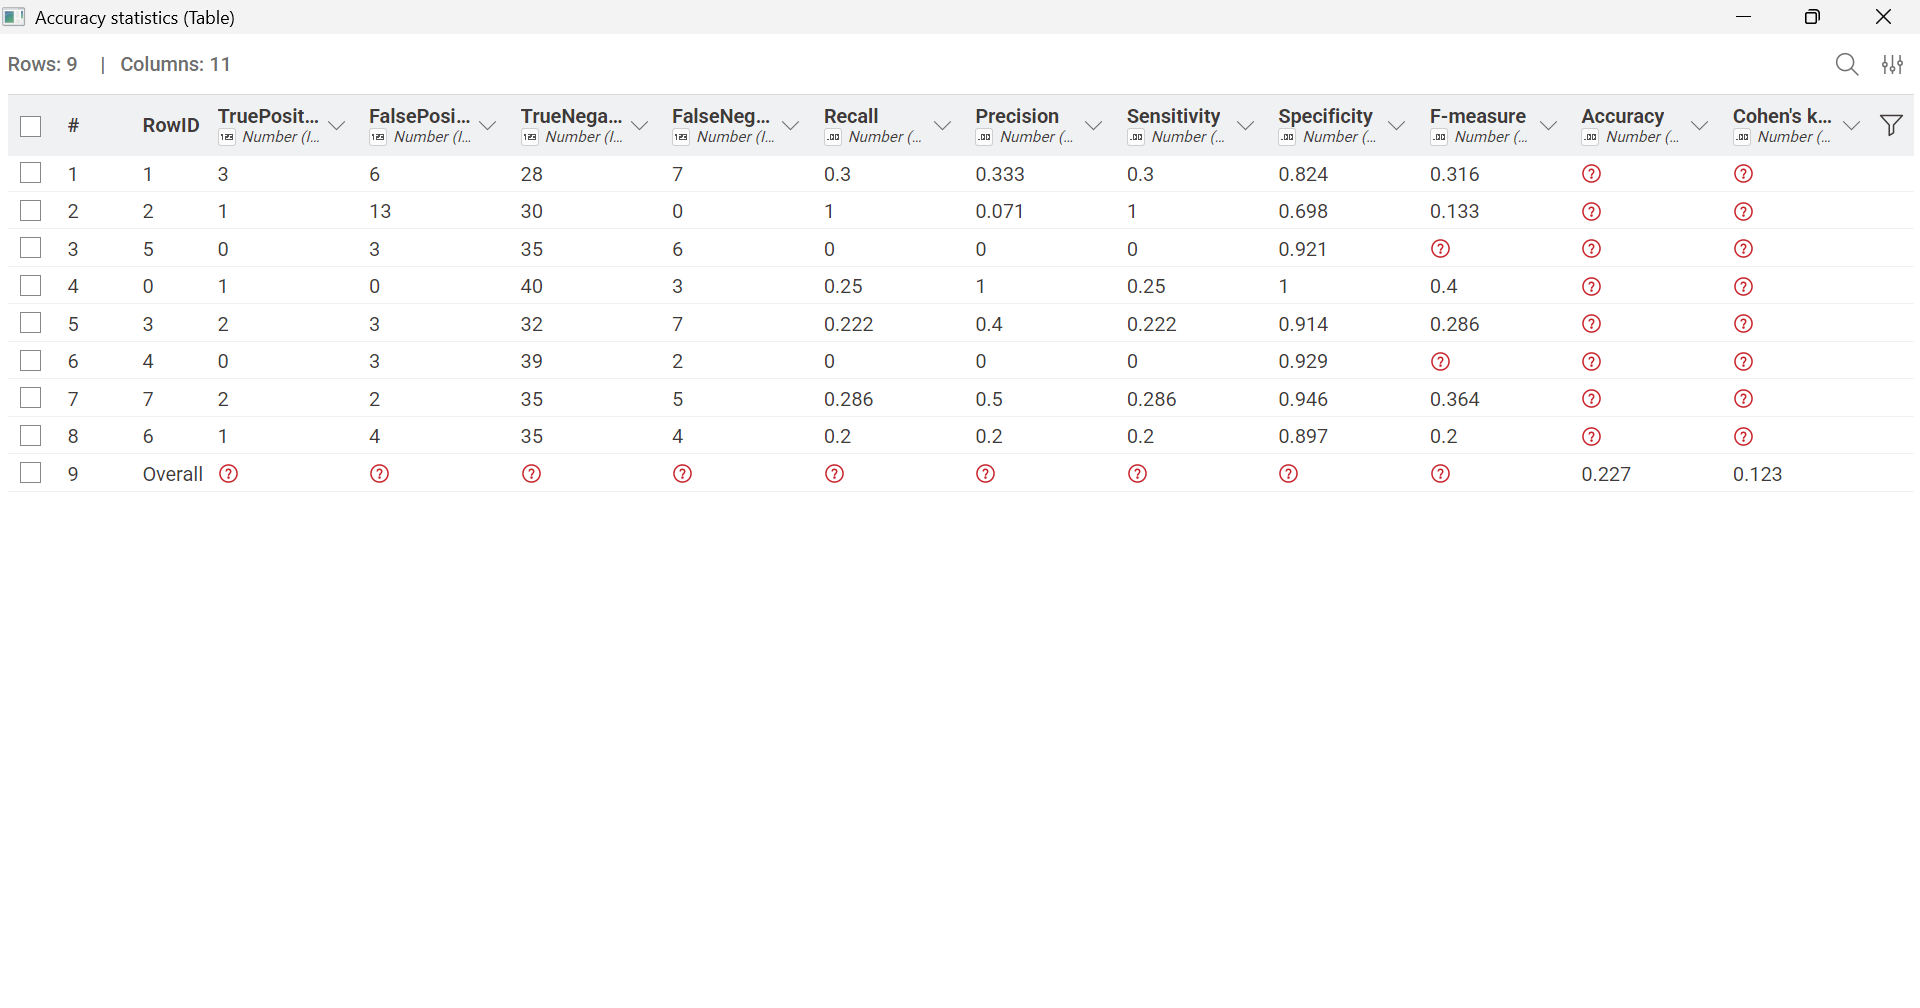
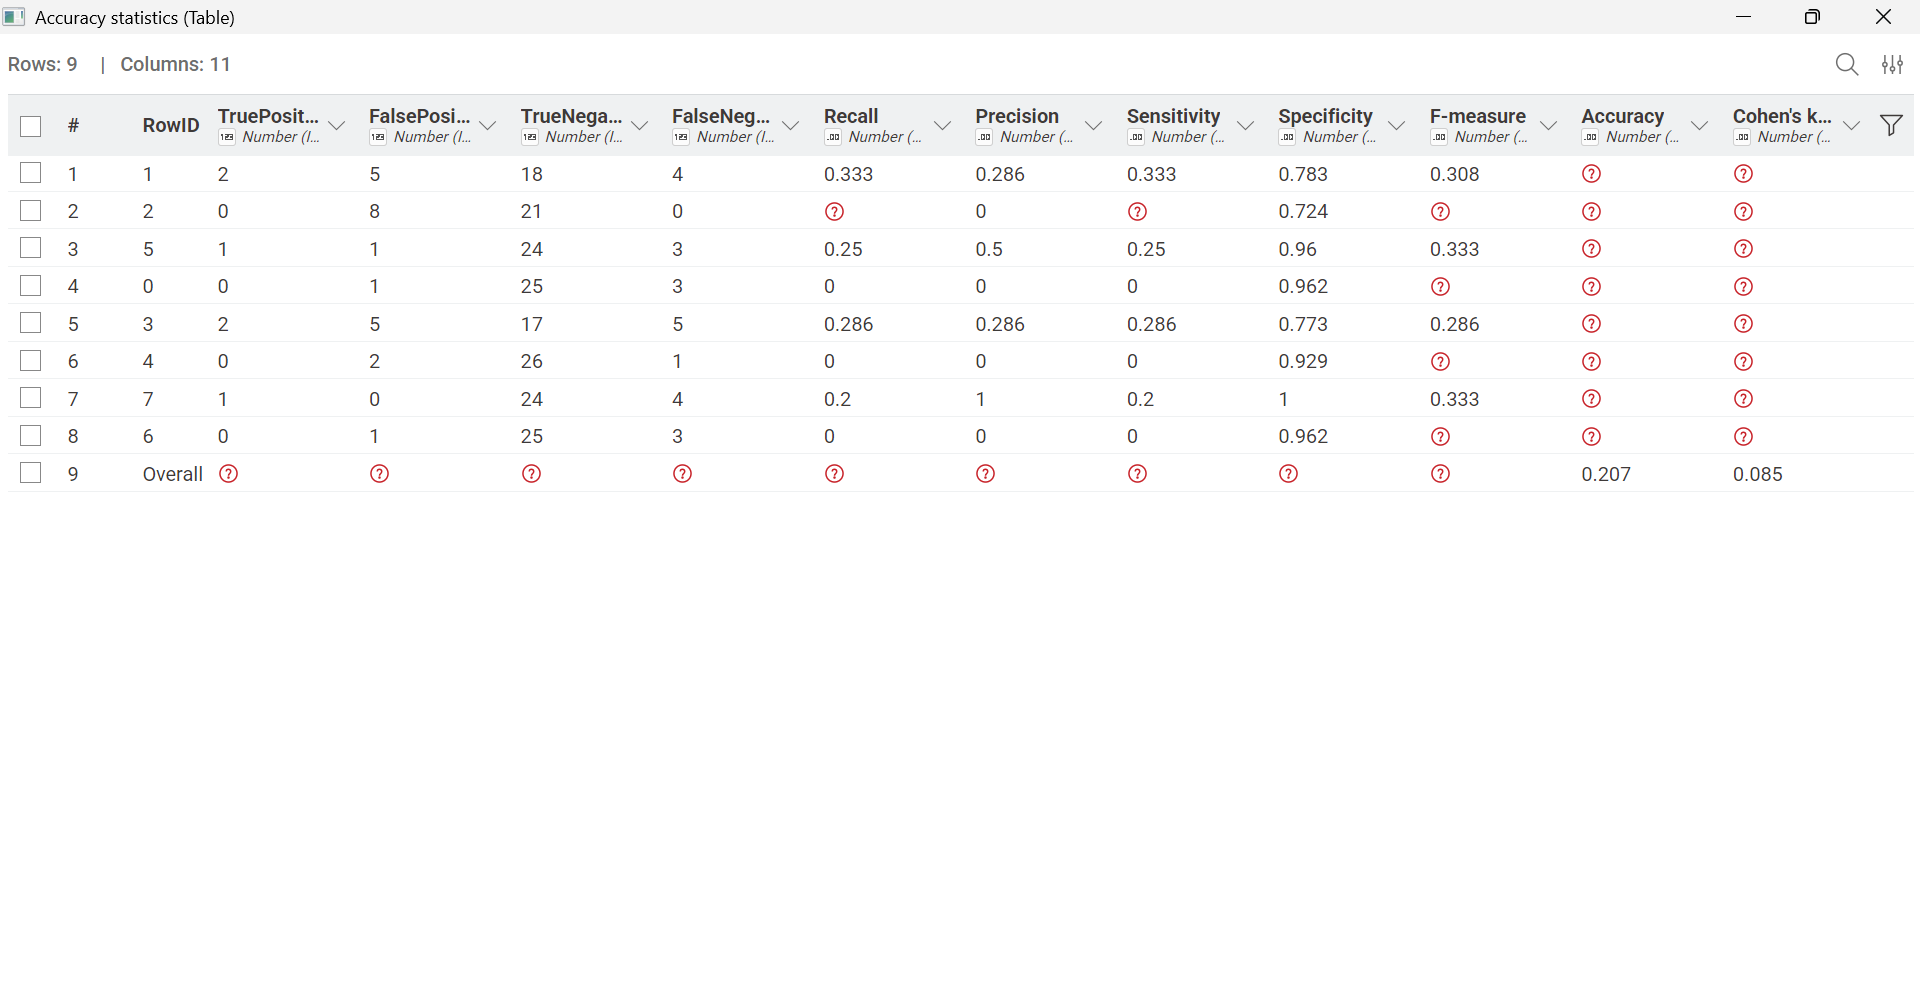
Update documentation

diff --git a/UAS.html b/UAS.html
@@ -389,8 +389,8 @@ document.write(`
             <nav aria-label="Page">
                 <ul class="visible nav section-nav flex-column">
 <li class="toc-h2 nav-item toc-entry"><a class="reference internal nav-link" href="#analisis-dataset-evaluasi-performa-mahasiswa-pendidikan-tinggi">Analisis Dataset Evaluasi Performa Mahasiswa Pendidikan Tinggi</a><ul class="nav section-nav flex-column">
-<li class="toc-h3 nav-item toc-entry"><a class="reference internal nav-link" href="#dataset">1. DATASET</a><ul class="nav section-nav flex-column">
-<li class="toc-h4 nav-item toc-entry"><a class="reference internal nav-link" href="#informasi-kolom">1.1 Informasi Kolom</a></li>
+<li class="toc-h3 nav-item toc-entry"><a class="reference internal nav-link" href="#dataset">DATASET</a><ul class="nav section-nav flex-column">
+<li class="toc-h4 nav-item toc-entry"><a class="reference internal nav-link" href="#informasi-kolom">Informasi Kolom</a></li>
 </ul>
 </li>
 <li class="toc-h3 nav-item toc-entry"><a class="reference internal nav-link" href="#knime">Knime</a></li>
@@ -431,10 +431,10 @@ document.write(`
 <section id="analisis-dataset-evaluasi-performa-mahasiswa-pendidikan-tinggi">
 <h2>Analisis Dataset Evaluasi Performa Mahasiswa Pendidikan Tinggi<a class="headerlink" href="#analisis-dataset-evaluasi-performa-mahasiswa-pendidikan-tinggi" title="Link to this heading">#</a></h2>
 <section id="dataset">
-<h3>1. DATASET<a class="headerlink" href="#dataset" title="Link to this heading">#</a></h3>
+<h3>DATASET<a class="headerlink" href="#dataset" title="Link to this heading">#</a></h3>
 <p>Dataset yang digunakan merupakan dataset Evaluasi Performa Mahasiswa Pendidikan Tinggi. Dataset ini dikumpulkan dari mahasiswa Fakultas Teknik dan Fakultas Ilmu Pendidikan. Tujuannya adalah untuk memprediksi nilai mahasiswa di akhir semester.</p>
 <section id="informasi-kolom">
-<h4>1.1 Informasi Kolom<a class="headerlink" href="#informasi-kolom" title="Link to this heading">#</a></h4>
+<h4>Informasi Kolom<a class="headerlink" href="#informasi-kolom" title="Link to this heading">#</a></h4>
 <p>Dataset ini terdiri dari 33 kolom, yang terdiri dari 1 kolom kode identitas mahasiswa, 2-11 data adalah pertanyaan pribadi, 12-17. pertanyaan termasuk pertanyaan keluarga, dan pertanyaan yang tersisa termasuk kebiasaan pendidikan.</p>
 <p>Keterangan tiap kolom</p>
 <ul class="simple">
@@ -616,8 +616,8 @@ Melalui analisis Attribute Importance pada algoritma Random Forest, ditemukan ba
   <nav class="bd-toc-nav page-toc">
     <ul class="visible nav section-nav flex-column">
 <li class="toc-h2 nav-item toc-entry"><a class="reference internal nav-link" href="#analisis-dataset-evaluasi-performa-mahasiswa-pendidikan-tinggi">Analisis Dataset Evaluasi Performa Mahasiswa Pendidikan Tinggi</a><ul class="nav section-nav flex-column">
-<li class="toc-h3 nav-item toc-entry"><a class="reference internal nav-link" href="#dataset">1. DATASET</a><ul class="nav section-nav flex-column">
-<li class="toc-h4 nav-item toc-entry"><a class="reference internal nav-link" href="#informasi-kolom">1.1 Informasi Kolom</a></li>
+<li class="toc-h3 nav-item toc-entry"><a class="reference internal nav-link" href="#dataset">DATASET</a><ul class="nav section-nav flex-column">
+<li class="toc-h4 nav-item toc-entry"><a class="reference internal nav-link" href="#informasi-kolom">Informasi Kolom</a></li>
 </ul>
 </li>
 <li class="toc-h3 nav-item toc-entry"><a class="reference internal nav-link" href="#knime">Knime</a></li>

diff --git a/notebooks.html b/notebooks.html
@@ -446,7 +446,7 @@ For example, here’s some sample Matplotlib code:</p>
 </div>
 </div>
 <div class="cell_output docutils container">
-<div class="output text_plain highlight-myst-ansi notranslate"><div class="highlight"><pre><span></span>&lt;contextlib.ExitStack at 0x1e4f85721f0&gt;
+<div class="output text_plain highlight-myst-ansi notranslate"><div class="highlight"><pre><span></span>&lt;contextlib.ExitStack at 0x1d03dd01550&gt;
 </pre></div>
 </div>
 </div>